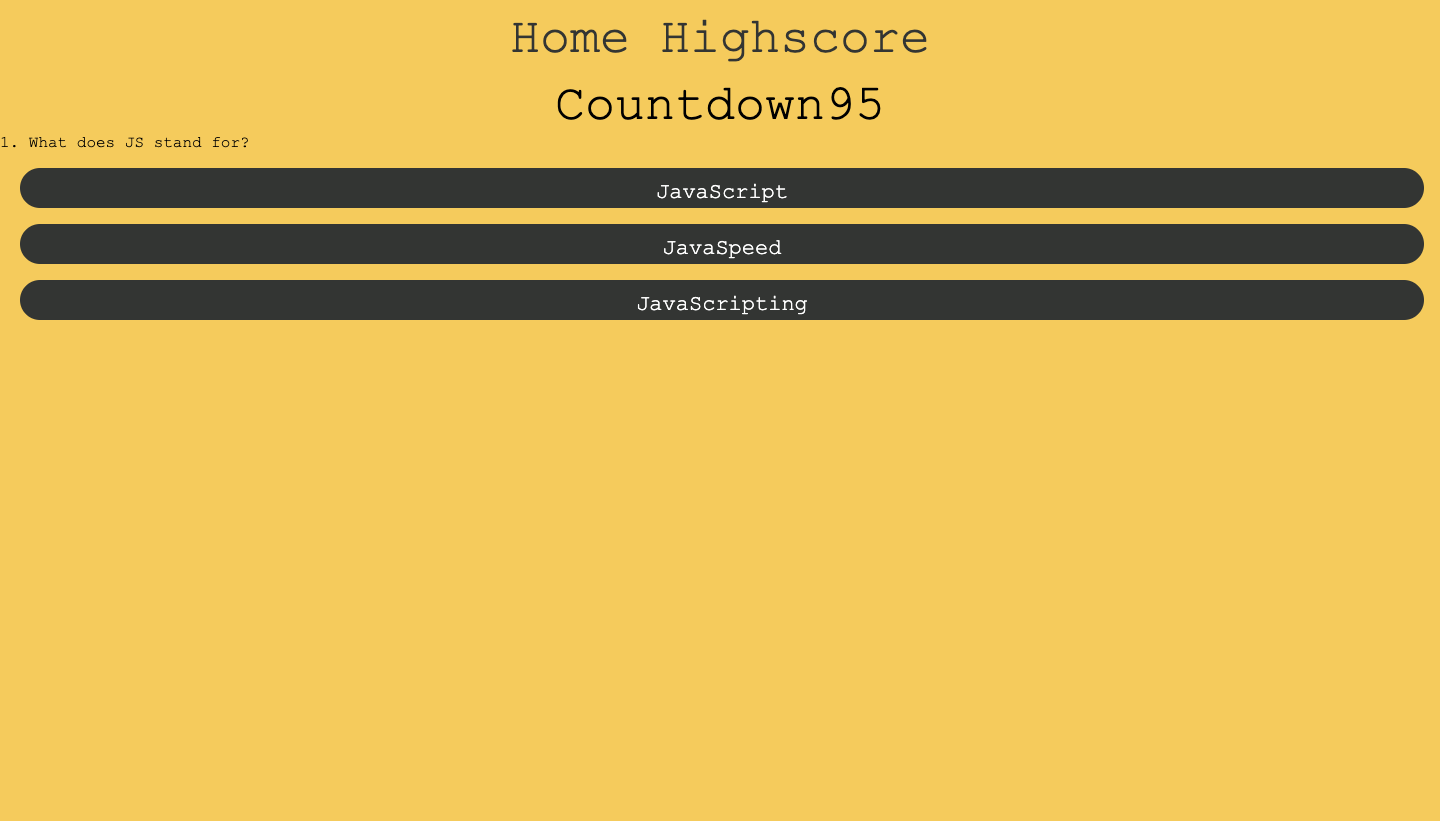
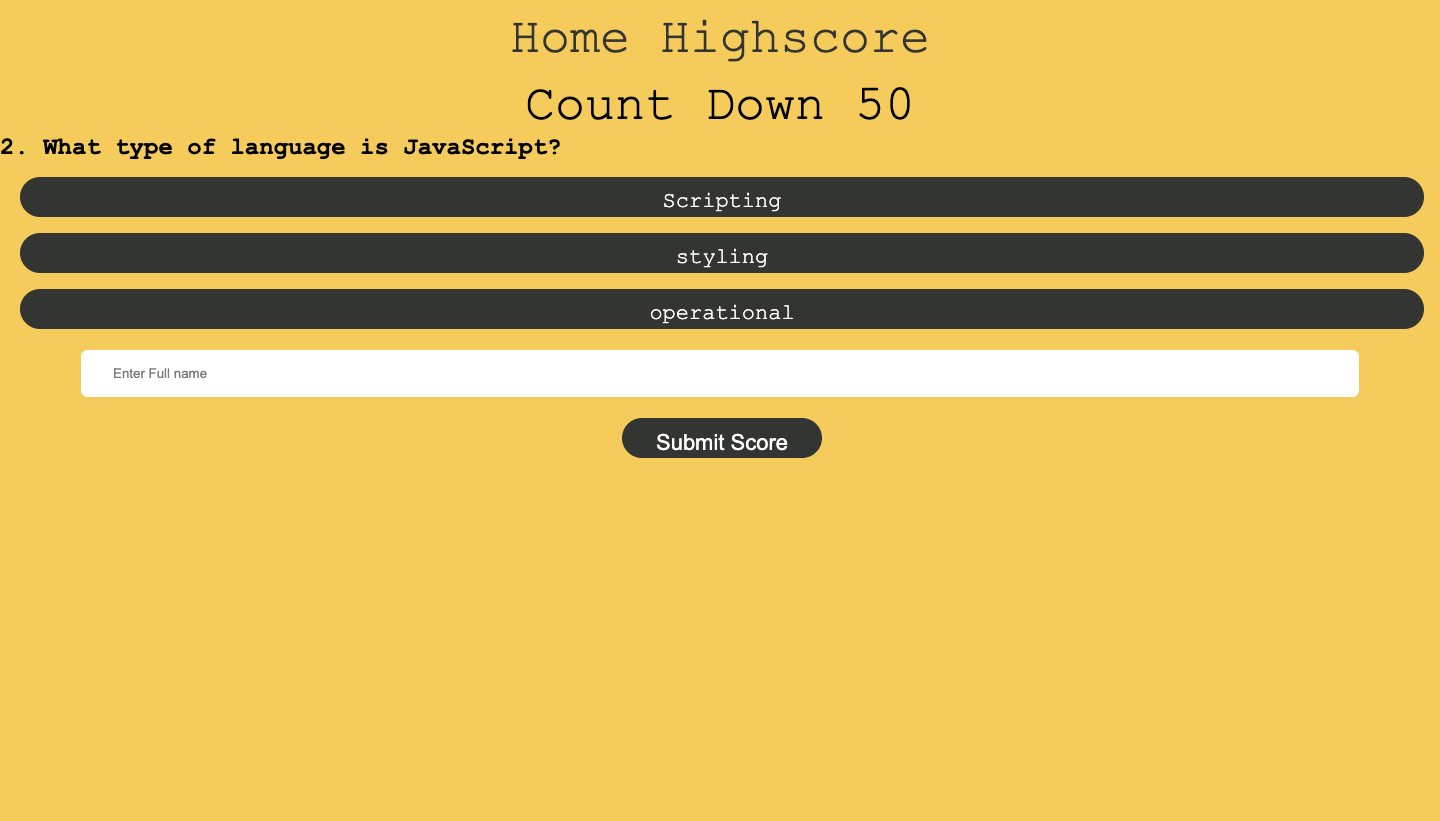
updated my screenshots and tried to finish off the render highscores

Changed region(s): [[0.0, 0.1523, 1.0, 0.5786], [0.375, 0.0914, 0.5312, 0.1523], [0.5625, 0.0914, 0.5938, 0.1523]]

diff --git a/assets/app.js b/assets/app.js
@@ -16,13 +16,12 @@ let quizComplete = false;
 // this is a callback function
 
 const handleTimerButton = () => {
-  console.log("start button clicked");
   const updateTimerValue = () => {
     // increase the  timer by 1
     timer -= 1;
 
     // set text to new timer figures
-    timerSpan.textContent = timer;
+    timerSpan.textContent = `Count Down ${timer}`;
 
     // check if timer is 0
     if (timer === 0) {
@@ -32,7 +31,6 @@ const handleTimerButton = () => {
 
   // start the timer
   const timerId = setInterval(updateTimerValue, 1000);
-  console.log(timerId);
 };
 
 //adding event listener function as a higher order function
@@ -44,13 +42,14 @@ document.getElementById("timer-span").addEventListener("click", () => {
 
 //declare the event handler function for start button click
 const handleStartButtonClick = () => {
-  startQuiz.remove();
-  formSection.remove();
+  console.log("start button clicked");
+  handleTimerButton();
+  removeBanner();
+  renderQuestions();
+};
 
-  // initialise local storage
-  initializeLocalStorage();
-  // render question
-  renderQuestion();
+const removeBanner = () => {
+  startQuiz.remove();
 };
 
 // add event listener to start button
@@ -114,41 +113,70 @@ const handleChoiceClicked = (event) => {
   console.log("clicked something in the question section");
   //get current target
   const currentTarget = event.currentTarget;
+  console.log(currentTarget);
   //get target
   const target = event.target;
+  console.log(target.tagName);
 
   //make sure click is from the list-items li & if it is an li
   if (target.tagName === "LI") {
     //GET THE OPTION THE USER CLICKS ON
     const value = target.getAttribute("data-value");
-    console.log(value);
+    console.log("answer", value);
     //get the answer from user
-    const question = questions[questionIndex].text;
+    const question = questions[questionIndex].question;
     console.log(question);
     //build and answer object that contains questions and answer
     const answer = {
       question,
       value,
     };
-    //store the answers in the ls
-    storeInLS("feedbackResults", answer);
 
-    //take question off
-    removeQuestions();
-    //checking if the button is clicked
-    console.log(answers);
+    console.log(answer);
     if (questionIndex < questions.length - 1) {
       //go to next question if not the last one
       questionIndex += 1;
+      questionSection.innerHTML = "";
       renderQuestions();
     } else {
-      //if its the last question then render the results to go on highscore page
-      //remove the last question as it cant be on the highscore page
-      renderScores();
+      if (!questionIndex)
+        //if its the last question then render the results to go on highscore page
+        //remove the last question as it cant be on the highscore page
+        renderScores();
       renderForm();
     }
   }
 };
+
+// const renderScores = () => {
+//   const scoresSection = document.createElement("scores");
+//   scoresSection.setAttribute("class", "scores");
+//   scoresSection.setAttribute("id", "scores");
+
+//   const p1 = document.createElement("answers");
+//   p1.setAttribute("class", "answers");
+//   p1.textContent = answers[0];
+
+//   const p2 = document.createElement("answers");
+//   p2.setAttribute("class", "answers");
+//   p2.textContent = answers[1];
+
+//   const p3 = document.createElement("answers");
+//   p3.setAttribute("class", "answers");
+//   p3.textContent = answers[2];
+
+//   const p4 = document.createElement("answers");
+//   p4.setAttribute("class", "answers");
+//   p4.textContent = answers[3];
+
+//   const p = document.createElement("answers");
+//   p3.setAttribute("class", "answers");
+//   p3.textContent = answers[2];
+
+//   const p4 = document.createElement("answers");
+//   p4.setAttribute("class", "answers");
+//   p4.textContent = answers[3];
+// };
 
 const handleFormSubmission = (event) => {
   event.preventDefault();
@@ -223,23 +251,23 @@ const renderQuestions = () => {
   console.log(" questions ", currentQuestion);
 
   //create section
-  const section = document.createElement("question-section");
+  const section = document.createElement("section");
   section.setAttribute("class", "question-section");
 
   //create h2 element
-  const h2 = document.createElement("question-header");
+  const h2 = document.createElement("h2");
   //set the h2 attribute
   section.setAttribute("class", "question-header");
   //set the text content what do you want in the h2
-  h2.textContent = `${questionIndex + 1}. ${currentQuestion.questions}`;
+  h2.textContent = `${questionIndex + 1}. ${currentQuestion.question}`;
 
   //create the ul and add(append) 3 list answers
-  const ul = document.createElement("list");
+  const ul = document.createElement("ul");
   //add a class attribute
   ul.setAttribute("class", "list");
 
   //create li item
-  const li1 = document.createElement("list-items");
+  const li1 = document.createElement("li");
   //add a class attribute
   li1.setAttribute("class", "list-items");
   li1.setAttribute("data-value", currentQuestion.choices[0]);
@@ -247,12 +275,12 @@ const renderQuestions = () => {
   // add content to the list items which is the answers set the text content reference your array and the index
   li1.textContent = currentQuestion.choices[0];
 
-  const li2 = document.createElement("list-items");
+  const li2 = document.createElement("li");
   li2.setAttribute("class", "list-items");
   li2.setAttribute("data-value", currentQuestion.choices[1]);
   li2.textContent = currentQuestion.choices[1];
 
-  const li3 = document.createElement("list");
+  const li3 = document.createElement("li");
   li3.setAttribute("class", "list-items");
   li3.setAttribute("data-value", currentQuestion.choices[2]);
   li3.textContent = currentQuestion.choices[2];
@@ -262,9 +290,10 @@ const renderQuestions = () => {
   //append h2 and and the ul to the section
   section.append(h2, ul);
   //append the section to the document
-  main.append(section);
+  questionSection.append(section);
+  // main.append(section);
   //add event listener on the questions section
-  section.addEventListener("click", handleStartButtonClick);
+  section.addEventListener("click", handleChoiceClicked);
 };
 
 //remove the questions from the page
@@ -300,4 +329,4 @@ const storeInLS = (key, value) => {
 
 //add the click event listener on the start button
 startButton.addEventListener("click", renderQuestions);
-startButton.addEventListener("click", handleChoiceClicked);
+// startButton.addEventListener("click", handleChoiceClicked);

diff --git a/index.html b/index.html
@@ -11,7 +11,7 @@
     <header class="header position" id="header">
       <!-- <nav> flex container -->
       <nav class="flex-container position" id="flex-container">
-        <a class="flex-items position anchor" href="./home.html">Home</a>
+        <a class="flex-items position anchor" href="./index.html">Home</a>
         <a class="flex-items position anchor" href="./highscore.html"
           >Highscore</a
         >
@@ -22,6 +22,7 @@
       <!-- #start-quiz-section -->
       <section class="start-quiz position" id="start-quiz">
         <h1 class="title">Take The Quiz</h1>
+
         <!-- <div></div>  -->
         <!-- #start button -->
         <div class="button">
@@ -30,11 +31,10 @@
       </section>
 
       <section class="timer-section position" id="timer-section">
-        <div>
-          <p>
-            Countdown<span class="timer" id="timer-span"> 60 Seconds </span>
-          </p>
-        </div>
+        <p>
+          <span class="timer" id="timer-span"></span>
+        </p>
+        <div id="question-section"></div>
       </section>
 
       <!-- My qusetions section -->

diff --git a/highscore.html b/highscore.html
@@ -11,11 +11,21 @@
     <header>
       <!-- <nav> flex container -->
       <nav class="flex-container position">
-        <a class="flex-items position anchor" href="./home.html">Home</a>
+        <a class="flex-items position anchor" href="./index.html">Home</a>
         <a class="flex-items position anchor" href="./highscore.html"
           >Highscore</a
         >
       </nav>
+
+      <section class="scores" id="scores">
+        <p class="para" id="para">Here are your scores</p>
+        <p class="answers" id="answers">1</p>
+        <p class="answers" id="answers">2</p>
+        <p class="answers" id="answers">3</p>
+        <p class="answers" id="answers">4</p>
+        <p class="answers" id="answers">5</p>
+        <p class="answers" id="answers">6</p>
+      </section>
     </header>
     <script src="./assets/app.js"></script>
   </body>

diff --git a/README.md b/README.md
@@ -17,5 +17,5 @@ Click the link to view the website [here](https://roxywasiak.github.io/code-quiz
 
 # Images Of Dynamic Page
 
-![desktop-version](./assets/screenshots/before.png)
+![desktop-version](./assets/screenshots/imagesecond.png)
 ![desktop-version](./assets/screenshots/after.png)
